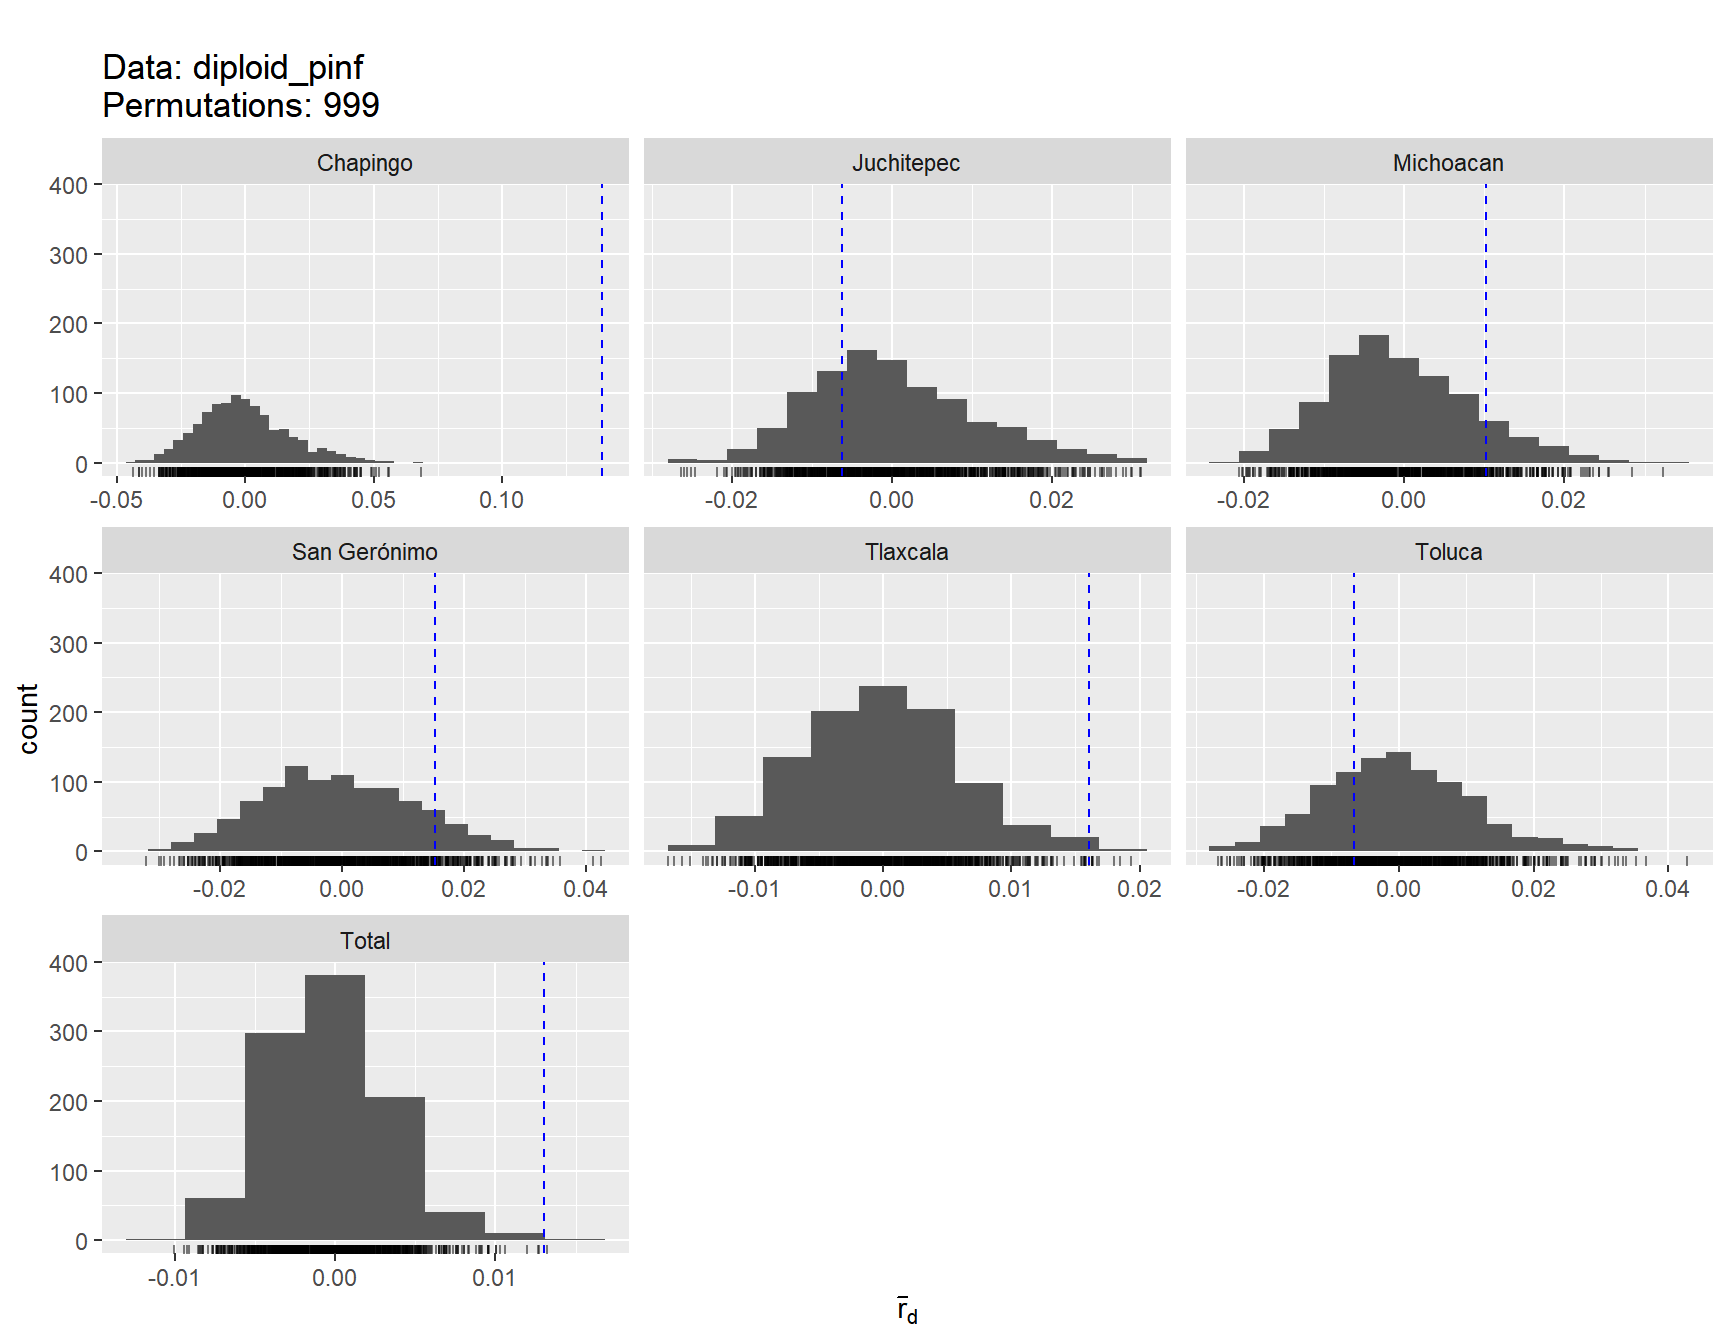
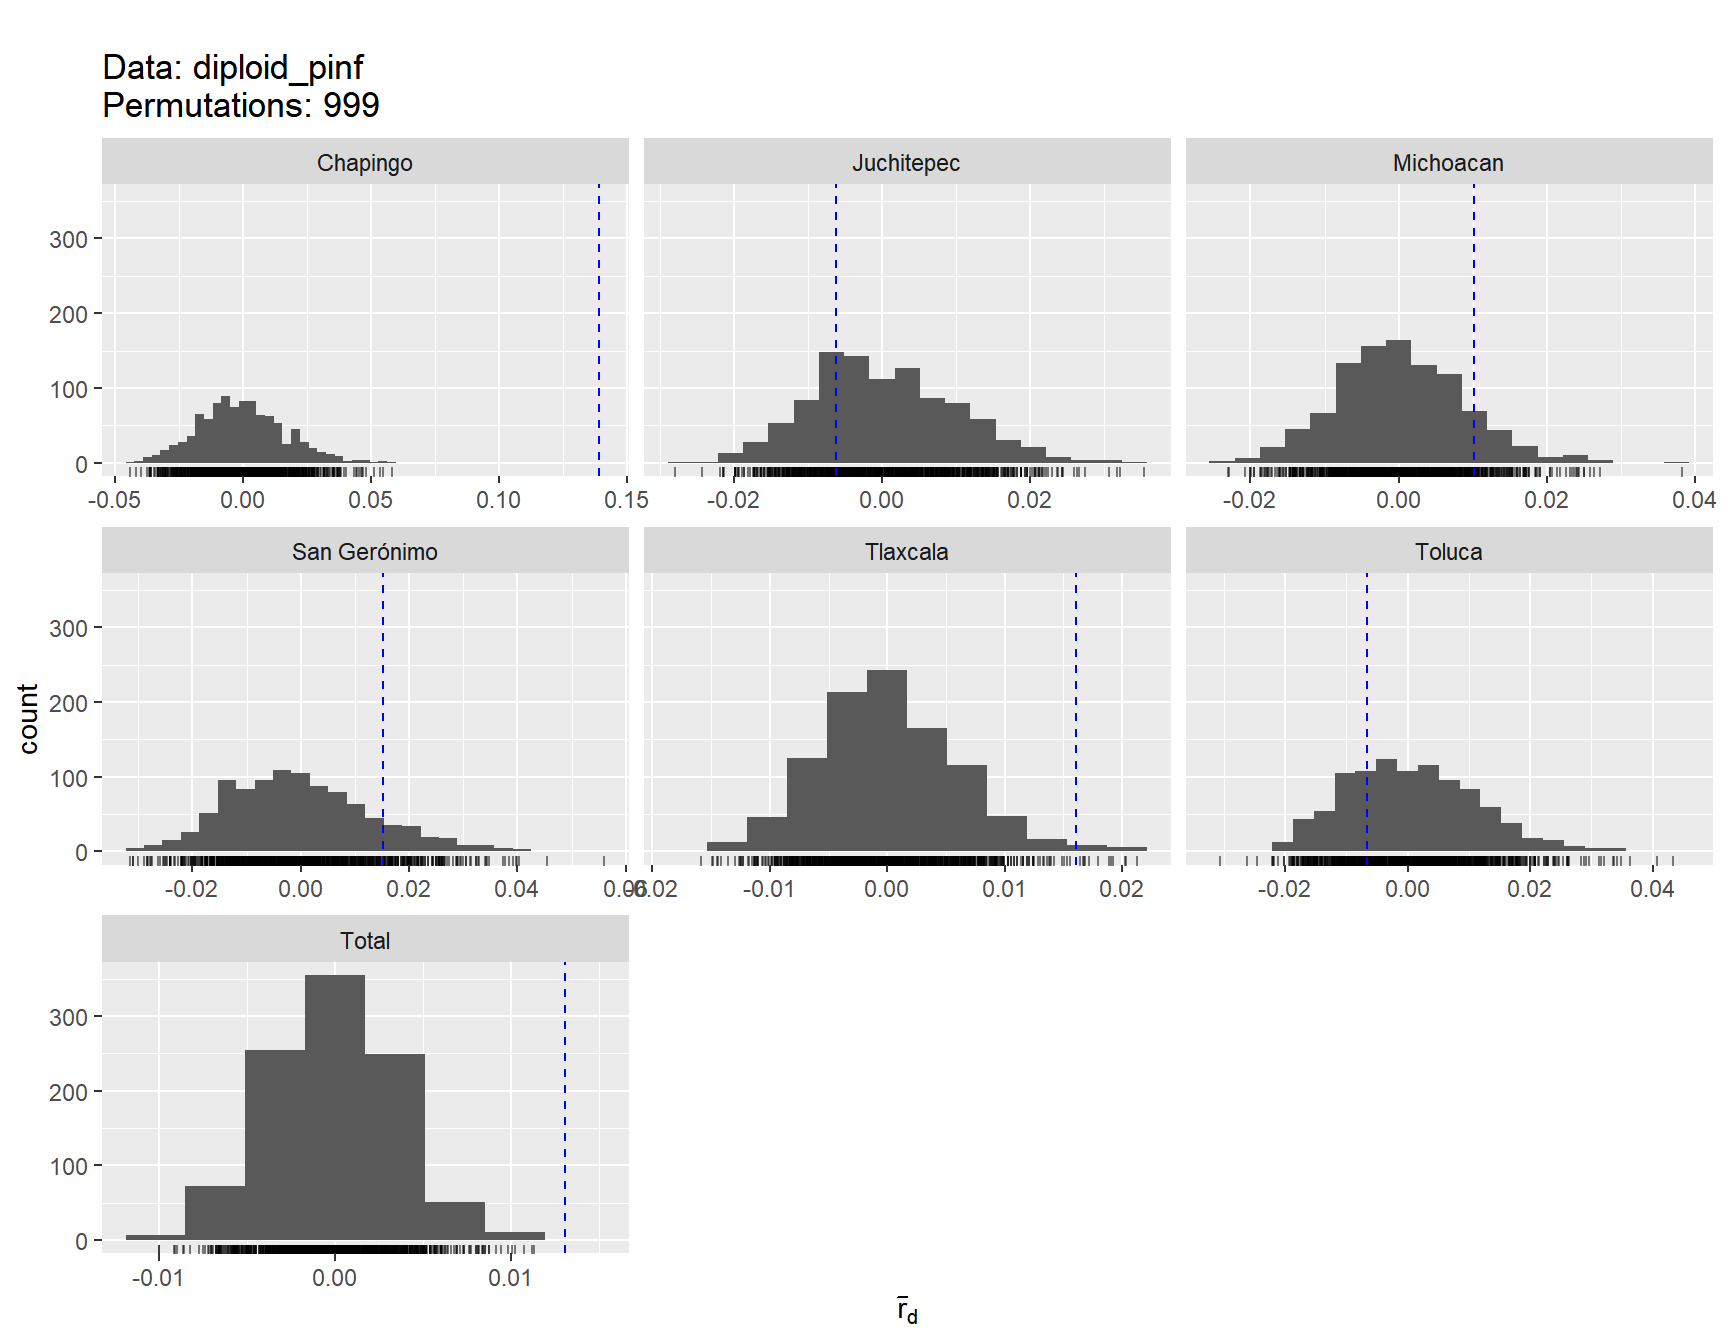
new

diff --git a/ssr.html b/ssr.html
@@ -529,15 +529,15 @@ colnames(ia_Pinf) &lt;- c(&quot;Region&quot;, &quot;N&quot;, &quot;MLG&quot;, &q
 ia_Pinf</code></pre>
 <pre><code>##         Region   N MLG    rbarD P-value
 ## 1     Chapingo  17  17  0.13903   0.001
-## 2   Juchitepec  28  28 -0.00623   0.704
-## 3 San Gerónimo  22  22  0.01519   0.114
-## 4       Toluca  38  38 -0.00664   0.714
-## 5     Tlaxcala  76  76  0.01604   0.011
-## 6    Michoacan  43  43  0.01019   0.121
-## 7        Total 224 221  0.01302   0.002</code></pre>
+## 2   Juchitepec  28  28 -0.00623   0.723
+## 3 San Gerónimo  22  22  0.01519   0.134
+## 4       Toluca  38  38 -0.00664   0.730
+## 5     Tlaxcala  76  76  0.01604   0.013
+## 6    Michoacan  43  43  0.01019   0.120
+## 7        Total 224 221  0.01302   0.001</code></pre>
 </div>
-<div id="hwe" class="section level2">
-<h2>HWE</h2>
+<div id="hardy_weiberg-equilibrium" class="section level2">
+<h2>Hardy_Weiberg Equilibrium</h2>
 <pre class="r"><code>library(pegas)
 diploid_pinf_cc &lt;- clonecorrect(diploid_pinf)
 hwe_per_pop &lt;- seppop(diploid_pinf_cc) %&gt;% lapply(hw.test, B = 1000)
@@ -557,12 +557,12 @@ colnames(ia_Pinf)[6] &lt;- &quot;Loci under HWE&quot;
 
 ia_Pinf</code></pre>
 <pre><code>##         Region  N MLG        rbarD P-value Loci under HWE
-## 1    Michoacan 43  43  0.010185614   0.121              5
+## 1    Michoacan 43  43  0.010185614   0.120              5
 ## 2     Chapingo 17  17  0.139028170   0.001              6
-## 3       Toluca 38  38 -0.006641278   0.714              7
-## 4 San Gerónimo 22  22  0.015188555   0.114              9
-## 5   Juchitepec 28  28 -0.006226974   0.704             11
-## 6     Tlaxcala 76  76  0.016042513   0.011              7</code></pre>
+## 3       Toluca 38  38 -0.006641278   0.730              7
+## 4 San Gerónimo 22  22  0.015188555   0.134              9
+## 5   Juchitepec 28  28 -0.006226974   0.723             11
+## 6     Tlaxcala 76  76  0.016042513   0.013              7</code></pre>
 </div>
 <div id="table-4.-pairwise-fst" class="section level2">
 <h2>Table 4. Pairwise FST</h2>
@@ -590,23 +590,23 @@ diploid_pinf_cc.g &lt;- gen2gtype(diploid_pinf_cc)
 
 pairwise_fst &lt;- pairwiseTest(diploid_pinf_cc.g, stats = &quot;fst&quot;, nrep = 100)</code></pre>
 <pre><code>## 
-## &lt;&lt;&lt; gtypes created on 2019-08-12 06:37:13 &gt;&gt;&gt;
-##  2019-08-12 06:37:14 : Pairwise tests : 100 permutations
-##    2019-08-12 06:37:14 : Chapingo v. Juchitepec 
-##    2019-08-12 06:37:14 : Chapingo v. Michoacan 
-##    2019-08-12 06:37:15 : Chapingo v. San Gerónimo 
-##    2019-08-12 06:37:16 : Chapingo v. Tlaxcala 
-##    2019-08-12 06:37:16 : Chapingo v. Toluca 
-##    2019-08-12 06:37:17 : Juchitepec v. Michoacan 
-##    2019-08-12 06:37:17 : Juchitepec v. San Gerónimo 
-##    2019-08-12 06:37:18 : Juchitepec v. Tlaxcala 
-##    2019-08-12 06:37:19 : Juchitepec v. Toluca 
-##    2019-08-12 06:37:20 : Michoacan v. San Gerónimo 
-##    2019-08-12 06:37:20 : Michoacan v. Tlaxcala 
-##    2019-08-12 06:37:21 : Michoacan v. Toluca 
-##    2019-08-12 06:37:21 : San Gerónimo v. Tlaxcala 
-##    2019-08-12 06:37:22 : San Gerónimo v. Toluca 
-##    2019-08-12 06:37:22 : Tlaxcala v. Toluca 
+## &lt;&lt;&lt; gtypes created on 2019-08-12 23:11:54 &gt;&gt;&gt;
+##  2019-08-12 23:11:54 : Pairwise tests : 100 permutations
+##    2019-08-12 23:11:54 : Chapingo v. Juchitepec 
+##    2019-08-12 23:11:55 : Chapingo v. Michoacan 
+##    2019-08-12 23:11:55 : Chapingo v. San Gerónimo 
+##    2019-08-12 23:11:56 : Chapingo v. Tlaxcala 
+##    2019-08-12 23:11:56 : Chapingo v. Toluca 
+##    2019-08-12 23:11:57 : Juchitepec v. Michoacan 
+##    2019-08-12 23:11:57 : Juchitepec v. San Gerónimo 
+##    2019-08-12 23:11:57 : Juchitepec v. Tlaxcala 
+##    2019-08-12 23:11:58 : Juchitepec v. Toluca 
+##    2019-08-12 23:11:58 : Michoacan v. San Gerónimo 
+##    2019-08-12 23:11:58 : Michoacan v. Tlaxcala 
+##    2019-08-12 23:11:59 : Michoacan v. Toluca 
+##    2019-08-12 23:11:59 : San Gerónimo v. Tlaxcala 
+##    2019-08-12 23:12:00 : San Gerónimo v. Toluca 
+##    2019-08-12 23:12:00 : Tlaxcala v. Toluca 
 ## 
 ## Population structure results:
 ##                              pair.label        Fst  Fst.p.val
@@ -622,7 +622,7 @@ pairwise_fst &lt;- pairwiseTest(diploid_pinf_cc.g, stats = &quot;fst&quot;, nrep
 ## 10  Michoacan (43) v. San Gerónimo (22) 0.11561847 0.00990099
 ## 11      Michoacan (43) v. Tlaxcala (76) 0.10420317 0.00990099
 ## 12        Michoacan (43) v. Toluca (38) 0.10782517 0.00990099
-## 13   San Gerónimo (22) v. Tlaxcala (76) 0.01159181 0.04950495
+## 13   San Gerónimo (22) v. Tlaxcala (76) 0.01159181 0.02970297
 ## 14     San Gerónimo (22) v. Toluca (38) 0.07121965 0.00990099
 ## 15         Tlaxcala (76) v. Toluca (38) 0.06161425 0.00990099</code></pre>
 <pre class="r"><code>fst_mat &lt;- pairwise_fst$pair.mat$Fst
@@ -677,16 +677,22 @@ myamv</code></pre>
 
 diploid_pinf &lt;- clonecorrect(diploid_pinf)
 tree_nj &lt;- bruvo.boot(diploid_pinf, replen = repeat_length, 
-                   sample = 99, cutoff = 70, tree = &quot;nj&quot;)</code></pre>
+                   sample = 99, cutoff = 70, tree = &quot;nj&quot;, showtree = FALSE)</code></pre>
 <pre><code>## 
 ## Bootstrapping...
 ## (note: calculation of node labels can take a while even after the progress bar is full)
 ## 
 ## 
 ## Calculating bootstrap values... done.</code></pre>
-<p><img src="ssr_files/figure-html/unnamed-chunk-10-1.png" width="1152" style="display: block; margin: auto;" /></p>
 <pre class="r"><code>plot(tree_nj)</code></pre>
-<p><img src="ssr_files/figure-html/unnamed-chunk-10-2.png" width="1152" style="display: block; margin: auto;" /></p>
+<p><img src="ssr_files/figure-html/unnamed-chunk-10-1.png" width="1152" style="display: block; margin: auto;" /></p>
+</div>
+<div id="lets-try-make-our-tree-visually-attractive" class="section level2">
+<h2>Lets try make our tree visually attractive</h2>
+<pre class="r"><code>tree_nj$tip.label &lt;- as.character(diploid_pinf$pop)
+
+plot(tree_nj)
+plot.phylo(tree_nj)</code></pre>
 </div>
 <div id="structure-analysis" class="section level2">
 <h2>STRUCTURE analysis</h2>
@@ -701,7 +707,7 @@ for (i in 1:length(edited_qmat_list)){
 
 library(strataG)
 structurePlot(edited_qmat_list[[3]], horiz = F)</code></pre>
-<p><img src="ssr_files/figure-html/unnamed-chunk-11-1.png" width="1152" style="display: block; margin: auto;" /></p>
+<p><img src="ssr_files/figure-html/unnamed-chunk-12-1.png" width="1152" style="display: block; margin: auto;" /></p>
 </div>
 <div id="fig-5.-discriminant-analysis-of-principal-components" class="section level2">
 <h2>Fig 5. Discriminant Analysis of Principal components</h2>
